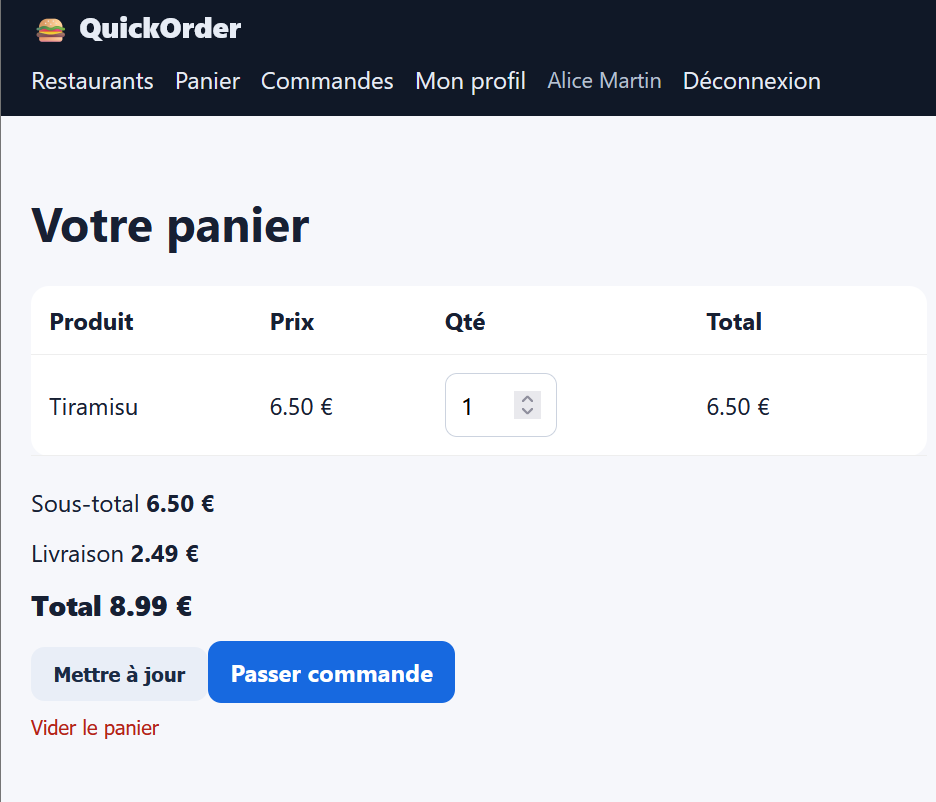
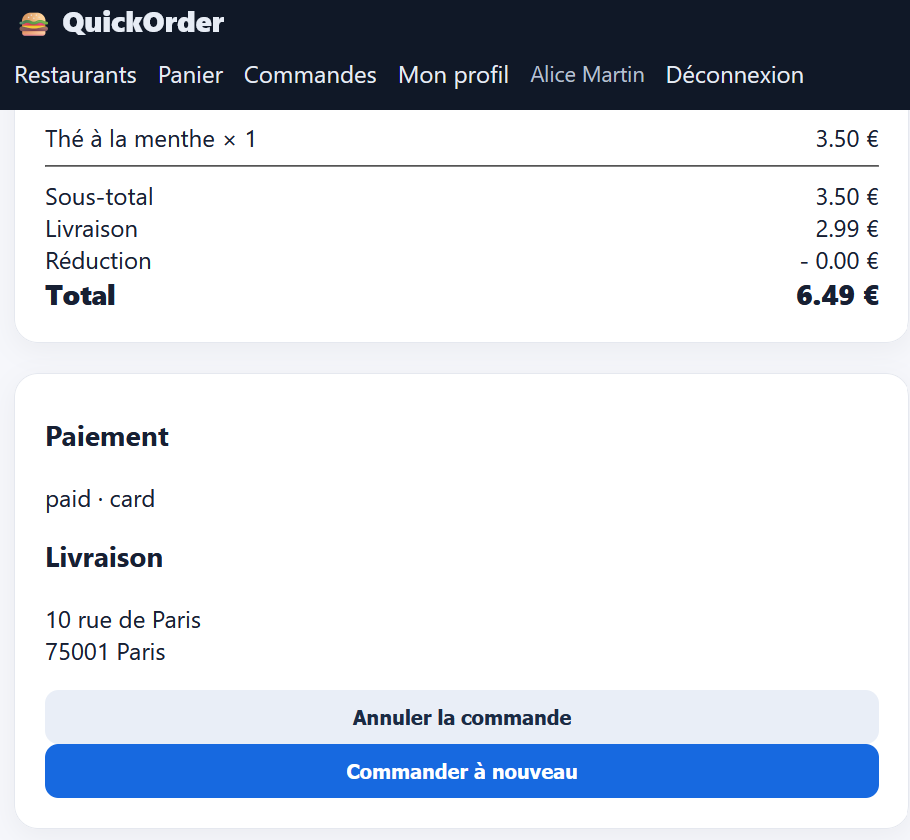
relier image bug

diff --git a/docs/bug-reports/BUG-008.md b/docs/bug-reports/BUG-008.md
@@ -1,26 +1,21 @@
-Incohérence des arrondis sur le montant total TTC
+# Rapport de Bug : BUG-003
 
-Titre : Disparité de centimes entre le calcul théorique du total et le total facturé
+**Titre :** Non-application de la réduction lors de l'utilisation d'un code promotionnel  
+**Contexte :** Prise en compte des codes promo lors de la validation du panier.  
+**Préconditions :** Le restaurant Couscous Atlas propose un code promotionnel `ATLAS15` offrant -15% de réduction.  
+**Étapes de reproduction :**
+1. Se rendre sur la fiche du restaurant Couscous Atlas.
+2. Ajouter un produit au panier (ex: Thé à la menthe à 3,50 €).
+3. Appliquer le code promo `ATLAS15` annoncé à -15%.
+4. Valider la commande et consulter le récapitulatif.
 
-Contexte : Calculateur du panier.
+**Résultat attendu :** La ligne Réduction doit afficher le montant déduit (-15% du sous-total, soit -0,52 €) et le total doit être réduit en conséquence.  
+**Résultat obtenu :** La réduction reste à `0.00 €` et le montant total est facturé plein tarif (6,49 €).  
+**Preuve :** Capture de l'annonce du code `ATLAS15` (-15%) + Capture du récapitulatif de commande montrant `Réduction : - 0.00 €`.
 
-Préconditions : Panier avec plusieurs articles ayant des prix décimaux.
+Preuve :
+![Preuve BUG-008-1](../screenshots/BUG/bug-008-1.png)
+![Preuve BUG-008-2](../screenshots/BUG/bug-008-2.png)
 
-Étapes de reproduction :
-
-Ajouter plusieurs articles avec des sous-totaux complexes.
-Comparer la somme exacte $\text{Sous-total} + \text{Livraison} - \text{Réduction}$ avec la valeur affichée sous Total.
-
-Résultat attendu : Le total affiché doit correspondre exactement à l'arrondi bancaire au centime près.
-
-Résultat obtenu : Présence d'écarts d'un centime selon les combinaisons d'articles et de coupons.
-
-Preuve : Relevé des totaux sur les commandes #10 et #13.   
-
-![Ecart d'arrondi 1](../screenshots/BUG/bug-008-1.png)
-![Ecart d'arrondi 2](../screenshots/BUG/bug-008-2.png)
-![Ecart d'arrondi 3](../screenshots/BUG/bug-008-3.png)
-
-Sévérité : Moyenne (Medium)
-
-Priorité : P2
+**Sévérité :** Moyenne (Medium)  
+**Priorité :** P2
